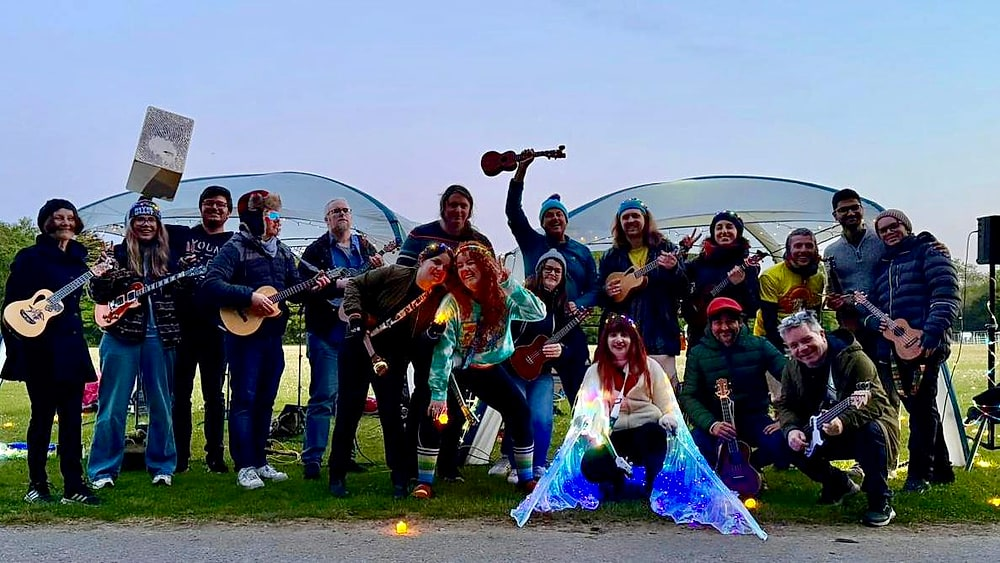
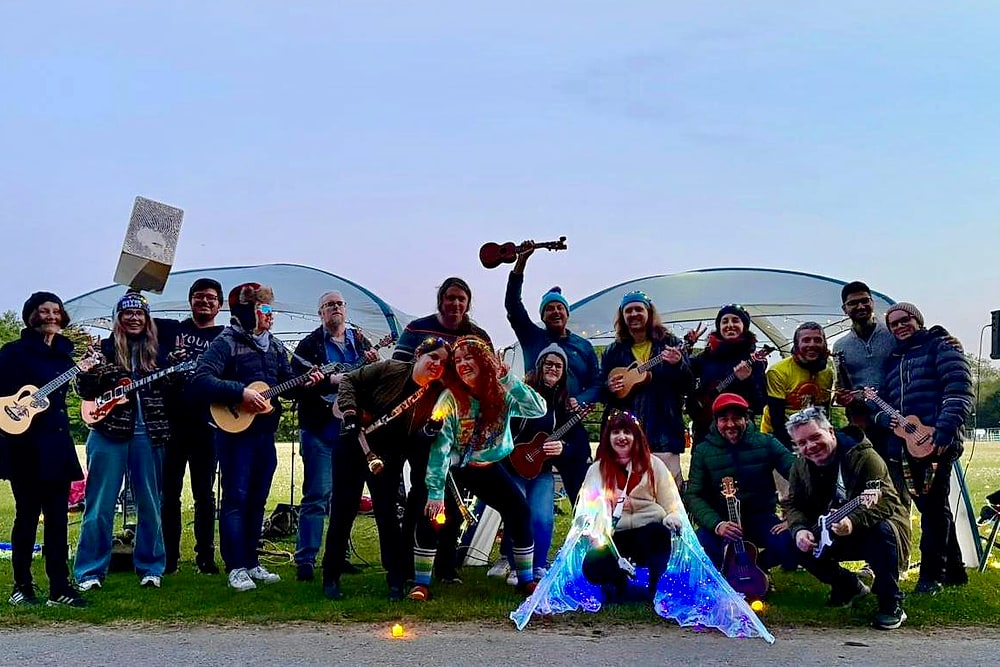
Book Us: community photo at 3:2 like the other two
The Darkness Into Light group shot was 16:9 while the play-along and
workshop photos are 3:2. The group fills the width of the original, so a
straight 3:2 crop cut people off at either edge; the sky is extended at
the top instead (mirrored, 100 px in the source), then the widest 3:2
window is taken. Same polish as before. The height attribute follows.

Claude-Session: https://claude.ai/code/session_01EF5T15gWnrEHwuGoXi5ode

diff --git a/templates/book-us/index.html b/templates/book-us/index.html
@@ -293,7 +293,7 @@
                         <div class="image-wrapper">
                           {{ content_picture("Ukulele-Tuesday-community-group-Darkness-Into-Light",
                                                     "Ukulele Tuesday's community group, about twenty people with ukuleles, in front of a lit gazebo at dawn in Marlay Park",
-                                                    563,
+                                                    667,
                                                     "(max-width: 767px) 100vw, 555px") }}
                         </div>
                       </div>
